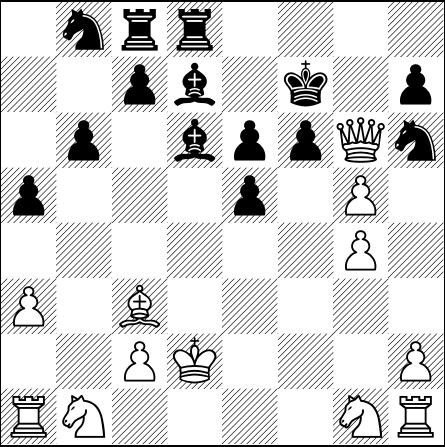
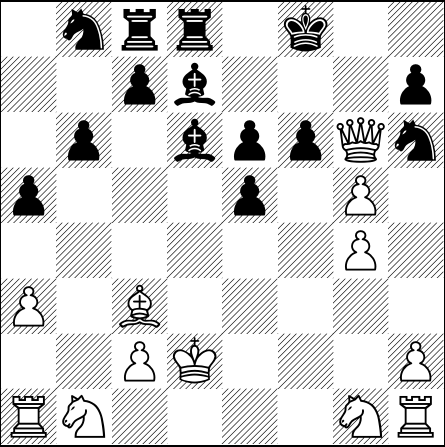
[automated] Regenerate text/pdf for chessboard

Changed region(s): [[0.6427, 0.0, 0.7596, 0.2617]]

diff --git a/default_filepath.tex b/default_filepath.tex
@@ -13,6 +13,6 @@
 \normalsize%
 \setchessboard{showmover=false}%
 \newgame%
-\fenboard{1nrr4/2pb1k1p/1p1bppQn/p3p1P1/6P1/P1B5/2PK3P/RN4NR b - - 9 30}%
+\fenboard{1nrr1k2/2pb3p/1p1bppQn/p3p1P1/6P1/P1B5/2PK3P/RN4NR w - - 10 31}%
 \chessboard%
 \end{document}
